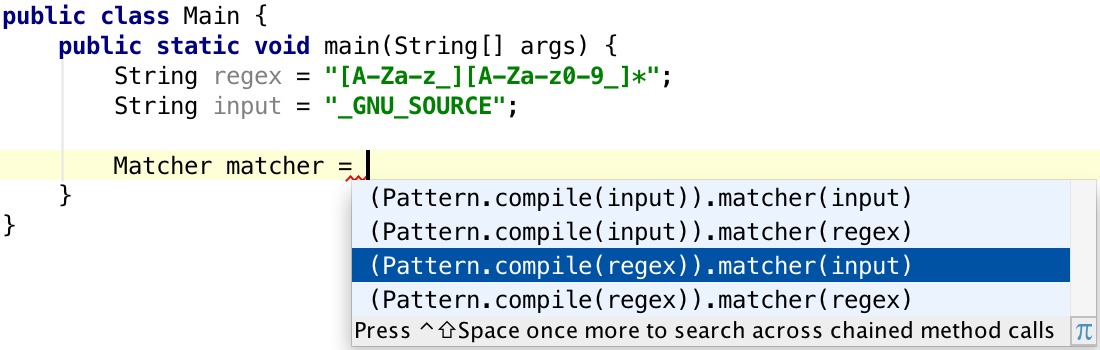
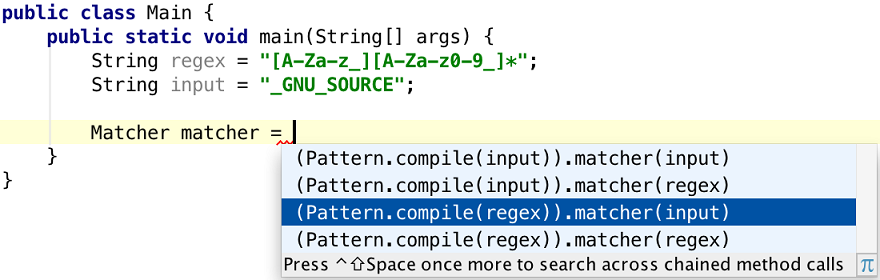
llallala

diff --git a/report/intro.tex b/report/intro.tex
@@ -1,6 +1,14 @@
 \section{Introduction}
 \label{sec:intro}
 
+\begin{figure*}[!tbh]
+%\centering
+\includegraphics[natwidth=\textwidth]{RegexMatcher.png}
+\caption{{\ourTool} suggesting five highest-ranked 
+well-typed expressions synthesized from declarations visible at a given program point\label{screenshot}}
+\end{figure*}
+
+
 Software development provides a high degree of freedom and
 many different approaches can be adopted for writing
 code. Still, when writing a program, the developer needs to follow

diff --git a/report/examples.tex b/report/examples.tex
@@ -1,6 +1,8 @@
 \section{Motivating Examples}
 \label{sec:examples}
 
+After the initial JVM warm-up?  
+
 We begin with a series of examples that show how to apply \ourTool in practical software
 development. These examples are written in the Java programming
 language. As formally defined in Sec.~\ref{sec:preliminaries},
